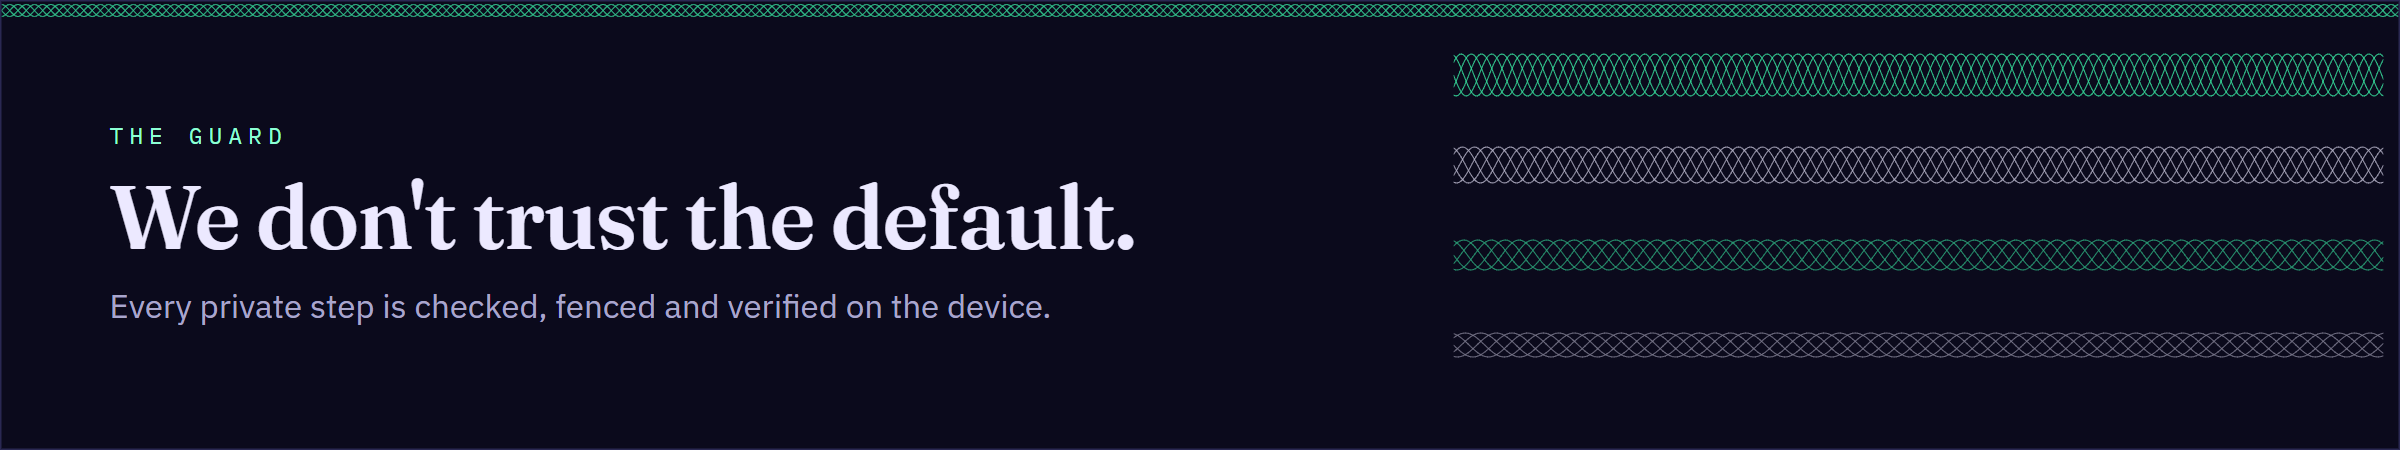
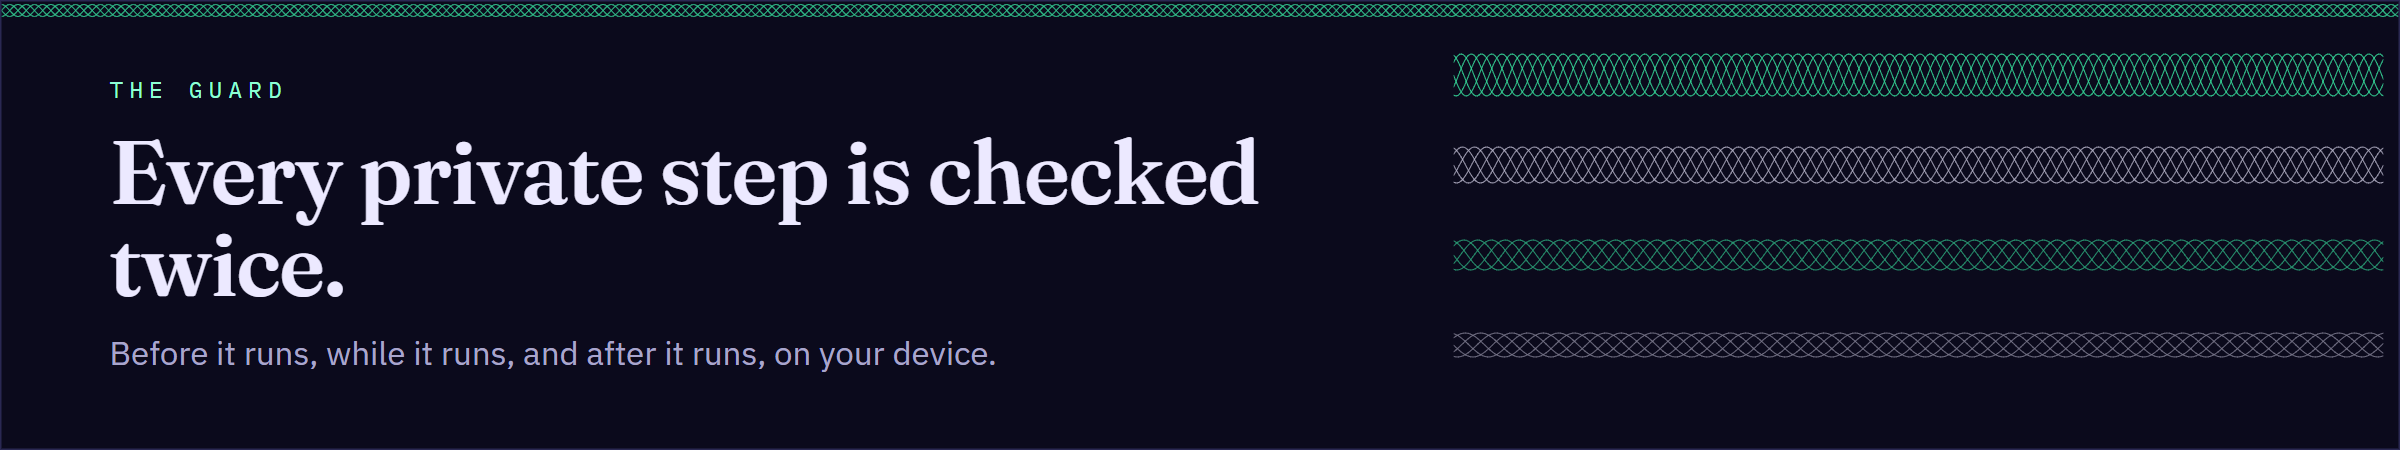
docs(copy): [FS-T1] gentler guard wording; final-batch scope in agent files
The guard section no longer reads as a charge against the SDK team: it calls
firebase-js-sdk #10635 an open report we haven't reproduced, and says why
Envoy checks every private step anyway ("Every private step is checked
twice."). Same wording in the About dialog, README, banner and kit.
CLAUDE.md, AGENTS.md and GEMINI.md record the owner's 26 Nov decisions:
Android companion and more masking languages are in scope.

Changed region(s): [[0.0312, 0.28, 0.5312, 0.7156], [0.0312, 0.7467, 0.4375, 0.8089], [0.0312, 0.1867, 0.125, 0.2178]]

diff --git a/packages/app/src/components/AboutDialog.tsx b/packages/app/src/components/AboutDialog.tsx
@@ -75,11 +75,11 @@ export function AboutDialog({ open, onClose }: { open: boolean; onClose: () => v
           </tbody>
         </table>
         <p className="m-0 text-sm leading-relaxed text-muted">
-          <strong className="text-ink">We don't trust the default.</strong> A known SDK issue
-          (firebase-js-sdk #10635) can send "on-device only" requests to the cloud in browsers
-          without Chrome's built-in model. Envoy checks the model before every private step, blocks
-          the cloud endpoint while one runs, and discards any answer that didn't come from the
-          device.
+          <strong className="text-ink">Every private step is checked twice.</strong> An open SDK
+          report (firebase-js-sdk #10635) describes "on-device only" requests reaching the cloud in
+          browsers without Chrome's built-in model. We haven't seen it ourselves, but Envoy doesn't
+          rely on any one layer: it checks the model before every private step, blocks the cloud
+          endpoint while one runs, and discards any answer that didn't come from the device.
         </p>
         <p className="m-0 text-sm text-muted">
           Inspired by PAPILLON (Li et al., NAACL 2025),{' '}

diff --git a/apps/web/src/art/Banners.tsx b/apps/web/src/art/Banners.tsx
@@ -41,8 +41,8 @@ export const BANNERS: {
   {
     slug: 'guard',
     eyebrow: 'The guard',
-    title: "We don't trust the default.",
-    sub: 'Every private step is checked, fenced and verified on the device.',
+    title: 'Every private step is checked twice.',
+    sub: 'Before it runs, while it runs, and after it runs, on your device.',
     tone: 'device',
     art: 'bands',
   },

diff --git a/AGENTS.md b/AGENTS.md
@@ -15,8 +15,8 @@ Envoy is our entry for the Firebase **#BuildHybridAI 2026** hackathon. Hard dead
 `packages/core` (pure TS privacy engine, no network) · `packages/ai` (Firebase AI Logic, App Check, Remote Config, device guard) · `apps/web` (Vite React SPA) · `apps/extension` (stretch) · `tests/eval` · `docs/`
 
 ## Decisions already made (don't reopen)
-- Web app first (Best Web/Chrome). The Chrome extension is a stretch goal; Android is a later stretch.
-- English only for now.
+- Web app first (Best Web/Chrome), plus the Chrome extension. **Owner decision 26 Nov 2026 (final batch): an Android companion (`android/`, Kotlin + Compose, `firebase-ai` + `firebase-ai-ondevice`) is now in scope.** Android SDK, Gradle cache and AVDs live on F: only (`F:/Android`).
+- English first. **Owner decision 26 Nov 2026: masking adds more languages** — only those Chrome's Prompt API lists (en, ja, es, de, fr), each with its own local rules; the app, docs and video stay in English.
 - GitHub account `hesham88`; commit author `Hesham Aboul-Fetouh <hesham1988@gmail.com>`. Google/Firebase account: `hesham1988@gmail.com` only. Never use a work account.
 - No backend server of our own. The only network calls are to Firebase services.
 
@@ -44,7 +44,7 @@ Shared files (`docs/PLAN.md`, `AGENTS.md`, root `package.json`): small, focused 
 ## Hard rules
 - Never commit secrets, `.env`, API keys, App Check debug tokens, or real personal data. Sample people and IDs are fictional.
 - Private steps (detect, minimize, route, local answer) use `InferenceMode.ONLY_ON_DEVICE`. They must never fall back to the cloud, and raw document text never goes to the cloud.
-- **Known SDK bug (firebase-js-sdk #10635, open):** `ONLY_ON_DEVICE` silently calls the cloud when Chrome's `LanguageModel` API is missing. Before every private step, check that `'LanguageModel' in self` and `await LanguageModel.availability() === 'available'`; otherwise use Basic protection (local rules only). After the call, assert `response.inferenceSource === InferenceSource.ON_DEVICE`. Keep the tests for this guard green.
+- **Known SDK bug (firebase-js-sdk #10635, open):** the issue reports `ONLY_ON_DEVICE` requests reaching the cloud when Chrome's `LanguageModel` API is missing (we haven't reproduced it ourselves; in public copy, describe it as an open report, never as a fault of the SDK team). Before every private step, check that `'LanguageModel' in self` and `await LanguageModel.availability() === 'available'`; otherwise use Basic protection (local rules only). After the call, assert `response.inferenceSource === InferenceSource.ON_DEVICE`. Keep the tests for this guard green.
 - Don't guess Firebase AI Logic APIs. Check the installed typings in `node_modules/@firebase/ai`.
 - **Evals and probes measure the real product:** every on-device or cloud result must come from the real pipeline (`analyze` / `answer` in `@envoy/ai`) running through **Firebase AI Logic hybrid inference** (`initEnvoy` → `createStepModel` with `ONLY_ON_DEVICE` / `PREFER_IN_CLOUD` → `runPrivate` and the device guard) inside the Chrome that has the model. Use `scripts/lib/envoy-browser.mjs`. Never synthesize model outputs from gold labels; an "oracle" upper bound may exist only if it is labelled as such and kept out of headline numbers. Every result names the model (component and version) and the date.
 - When you finish a task, update `docs/PLAN.md`.

diff --git a/CLAUDE.md b/CLAUDE.md
@@ -15,8 +15,8 @@ Envoy is our entry for the Firebase **#BuildHybridAI 2026** hackathon. Hard dead
 `packages/core` (pure TS privacy engine, no network) · `packages/ai` (Firebase AI Logic, App Check, Remote Config, device guard) · `apps/web` (Vite React SPA) · `apps/extension` (stretch) · `tests/eval` · `docs/`
 
 ## Decisions already made (don't reopen)
-- Web app first (Best Web/Chrome). The Chrome extension is a stretch goal; Android is a later stretch.
-- English only for now.
+- Web app first (Best Web/Chrome), plus the Chrome extension. **Owner decision 26 Nov 2026 (final batch): an Android companion (`android/`, Kotlin + Compose, `firebase-ai` + `firebase-ai-ondevice`) is now in scope.** Android SDK, Gradle cache and AVDs live on F: only (`F:/Android`).
+- English first. **Owner decision 26 Nov 2026: masking adds more languages** — only those Chrome's Prompt API lists (en, ja, es, de, fr), each with its own local rules; the app, docs and video stay in English.
 - GitHub account `hesham88`; commit author `Hesham Aboul-Fetouh <hesham1988@gmail.com>`. Google/Firebase account: `hesham1988@gmail.com` only. Never use a work account.
 - No backend server of our own. The only network calls are to Firebase services.
 
@@ -44,7 +44,7 @@ Shared files (`docs/PLAN.md`, `AGENTS.md`, root `package.json`): small, focused 
 ## Hard rules
 - Never commit secrets, `.env`, API keys, App Check debug tokens, or real personal data. Sample people and IDs are fictional.
 - Private steps (detect, minimize, route, local answer) use `InferenceMode.ONLY_ON_DEVICE`. They must never fall back to the cloud, and raw document text never goes to the cloud.
-- **Known SDK bug (firebase-js-sdk #10635, open):** `ONLY_ON_DEVICE` silently calls the cloud when Chrome's `LanguageModel` API is missing. Before every private step, check that `'LanguageModel' in self` and `await LanguageModel.availability() === 'available'`; otherwise use Basic protection (local rules only). After the call, assert `response.inferenceSource === InferenceSource.ON_DEVICE`. Keep the tests for this guard green.
+- **Known SDK bug (firebase-js-sdk #10635, open):** the issue reports `ONLY_ON_DEVICE` requests reaching the cloud when Chrome's `LanguageModel` API is missing (we haven't reproduced it ourselves; in public copy, describe it as an open report, never as a fault of the SDK team). Before every private step, check that `'LanguageModel' in self` and `await LanguageModel.availability() === 'available'`; otherwise use Basic protection (local rules only). After the call, assert `response.inferenceSource === InferenceSource.ON_DEVICE`. Keep the tests for this guard green.
 - Don't guess Firebase AI Logic APIs. Check the installed typings in `node_modules/@firebase/ai`.
 - **Evals and probes measure the real product:** every on-device or cloud result must come from the real pipeline (`analyze` / `answer` in `@envoy/ai`) running through **Firebase AI Logic hybrid inference** (`initEnvoy` → `createStepModel` with `ONLY_ON_DEVICE` / `PREFER_IN_CLOUD` → `runPrivate` and the device guard) inside the Chrome that has the model. Use `scripts/lib/envoy-browser.mjs`. Never synthesize model outputs from gold labels; an "oracle" upper bound may exist only if it is labelled as such and kept out of headline numbers. Every result names the model (component and version) and the date.
 - When you finish a task, update `docs/PLAN.md`.

diff --git a/GEMINI.md b/GEMINI.md
@@ -15,8 +15,8 @@ Envoy is our entry for the Firebase **#BuildHybridAI 2026** hackathon. Hard dead
 `packages/core` (pure TS privacy engine, no network) · `packages/ai` (Firebase AI Logic, App Check, Remote Config, device guard) · `apps/web` (Vite React SPA) · `apps/extension` (stretch) · `tests/eval` · `docs/`
 
 ## Decisions already made (don't reopen)
-- Web app first (Best Web/Chrome). The Chrome extension is a stretch goal; Android is a later stretch.
-- English only for now.
+- Web app first (Best Web/Chrome), plus the Chrome extension. **Owner decision 26 Nov 2026 (final batch): an Android companion (`android/`, Kotlin + Compose, `firebase-ai` + `firebase-ai-ondevice`) is now in scope.** Android SDK, Gradle cache and AVDs live on F: only (`F:/Android`).
+- English first. **Owner decision 26 Nov 2026: masking adds more languages** — only those Chrome's Prompt API lists (en, ja, es, de, fr), each with its own local rules; the app, docs and video stay in English.
 - GitHub account `hesham88`; commit author `Hesham Aboul-Fetouh <hesham1988@gmail.com>`. Google/Firebase account: `hesham1988@gmail.com` only. Never use a work account.
 - No backend server of our own. The only network calls are to Firebase services.
 
@@ -44,7 +44,7 @@ Shared files (`docs/PLAN.md`, `AGENTS.md`, root `package.json`): small, focused 
 ## Hard rules
 - Never commit secrets, `.env`, API keys, App Check debug tokens, or real personal data. Sample people and IDs are fictional.
 - Private steps (detect, minimize, route, local answer) use `InferenceMode.ONLY_ON_DEVICE`. They must never fall back to the cloud, and raw document text never goes to the cloud.
-- **Known SDK bug (firebase-js-sdk #10635, open):** `ONLY_ON_DEVICE` silently calls the cloud when Chrome's `LanguageModel` API is missing. Before every private step, check that `'LanguageModel' in self` and `await LanguageModel.availability() === 'available'`; otherwise use Basic protection (local rules only). After the call, assert `response.inferenceSource === InferenceSource.ON_DEVICE`. Keep the tests for this guard green.
+- **Known SDK bug (firebase-js-sdk #10635, open):** the issue reports `ONLY_ON_DEVICE` requests reaching the cloud when Chrome's `LanguageModel` API is missing (we haven't reproduced it ourselves; in public copy, describe it as an open report, never as a fault of the SDK team). Before every private step, check that `'LanguageModel' in self` and `await LanguageModel.availability() === 'available'`; otherwise use Basic protection (local rules only). After the call, assert `response.inferenceSource === InferenceSource.ON_DEVICE`. Keep the tests for this guard green.
 - Don't guess Firebase AI Logic APIs. Check the installed typings in `node_modules/@firebase/ai`.
 - **Evals and probes measure the real product:** every on-device or cloud result must come from the real pipeline (`analyze` / `answer` in `@envoy/ai`) running through **Firebase AI Logic hybrid inference** (`initEnvoy` → `createStepModel` with `ONLY_ON_DEVICE` / `PREFER_IN_CLOUD` → `runPrivate` and the device guard) inside the Chrome that has the model. Use `scripts/lib/envoy-browser.mjs`. Never synthesize model outputs from gold labels; an "oracle" upper bound may exist only if it is labelled as such and kept out of headline numbers. Every result names the model (component and version) and the date.
 - When you finish a task, update `docs/PLAN.md`.

diff --git a/README.md b/README.md
@@ -121,7 +121,7 @@ Five task-specific model configurations (four use Chrome's on-device model, one 
 | The device guard: availability check, network tripwire, `inferenceSource` assertion, session cleanup                  | [`getDeviceStatus`](packages/ai/src/device-guard.ts#L100), [`withCloudTripwire`](packages/ai/src/device-guard.ts#L131), [`InferenceSource.ON_DEVICE`](packages/ai/src/device-guard.ts#L210), [`withSessionCleanup`](packages/ai/src/device-guard.ts#L62) |
 | The pipeline: `analyze` (private steps), `answer` (local answer or cloud reasoning over tags)                         | [`analyze`](packages/ai/src/pipeline.ts#L229), [`answer`](packages/ai/src/pipeline.ts#L439), [`checkOutbound`](packages/ai/src/pipeline.ts#L208)                                                                                                         |
 
-To see the guard catch firebase-js-sdk #10635 yourself, open [`/dev`](https://envoy-hybrid-ai.web.app/dev) and press **Simulate missing LanguageModel**: the private step is blocked instead of silently going to the cloud.
+To see the guard handle the case described in firebase-js-sdk #10635, open [`/dev`](https://envoy-hybrid-ai.web.app/dev) and press **Simulate missing LanguageModel**: the private step is blocked before any call is made.
 
 ### Why not just redact?
 
@@ -132,11 +132,11 @@ A typical scrubber replaces everything with `[REDACTED]` and still sends the who
 - **The cloud never sees the result either.** It writes `{{RENT * 1.10}}` and Envoy works out EGP 9,350 on your device ([`expr.ts`](packages/core/src/expr.ts)).
 - **Some questions never go to the cloud.** "When does my lease end?" is answered on the device, with 0 bytes sent.
 
-<img src="docs/img/brand/section-guard.png" alt="We don't trust the default." width="100%">
+<img src="docs/img/brand/section-guard.png" alt="Every private step is checked twice." width="100%">
 
 ## The guard
 
-`ONLY_ON_DEVICE` can silently call the cloud when Chrome's `LanguageModel` API is missing ([firebase-js-sdk #10635](https://github.com/firebase/firebase-js-sdk/issues/10635), open). A privacy product can't rely on that, so every private step goes through [`runPrivate`](packages/ai/src/device-guard.ts):
+An open report on the Firebase JS SDK ([firebase-js-sdk #10635](https://github.com/firebase/firebase-js-sdk/issues/10635)) describes `ONLY_ON_DEVICE` requests reaching the cloud when Chrome's `LanguageModel` API is missing. We haven't run into it ourselves, but a privacy promise shouldn't rest on any one layer, so every private step goes through [`runPrivate`](packages/ai/src/device-guard.ts):
 
 1. **Check first:** `LanguageModel` must exist and report `available`, or Envoy switches to Basic protection.
 2. **Fence the network:** while a private step runs, any request to the Firebase AI endpoint is blocked, and the run stops with a privacy error instead of falling back.

diff --git a/docs/SUBMISSION_KIT.md b/docs/SUBMISSION_KIT.md
@@ -311,7 +311,7 @@ Envoy is your private AI agent to the cloud. You ask a question about a private 
 Envoy is built on **Firebase AI Logic hybrid inference** in Chrome:
 - One `GenerativeModel` per step, each with its own `InferenceMode`. Finding details, choosing clauses, routing and local answers use `ONLY_ON_DEVICE` on Chrome's built-in model (measured on Gemma 4, the model Gemini Nano 4 is built on). Only the reasoning step reaches the cloud: Gemini 3.5 Flash-Lite with `PREFER_IN_CLOUD`, or Gemini 4 Hydrogen with `ONLY_IN_CLOUD` and Flash-Lite as its fallback.
 - Structured output on both sides from one JSON Schema (`responseConstraint` on the device, `responseJsonSchema` in the cloud).
-- A **device guard**: because of firebase-js-sdk issue #10635 (`ONLY_ON_DEVICE` can silently use the cloud when Chrome's model is missing), every private step checks availability, sets a network tripwire on the AI Logic endpoint, and asserts `inferenceSource === ON_DEVICE`. A blocked request stops the run; it never falls back to the cloud.
+- A **device guard**: an open SDK report (firebase-js-sdk #10635) describes `ONLY_ON_DEVICE` requests reaching the cloud when Chrome's model is missing. We haven't seen it ourselves, but a privacy promise shouldn't rest on one layer, so every private step checks availability, sets a network tripwire on the AI Logic endpoint, and asserts `inferenceSource === ON_DEVICE`. A blocked request stops the run; it never falls back to the cloud.
 - **App Check** (reCAPTCHA Enterprise, limited-use tokens) is enforced; **Remote Config** picks the cloud models; the app is on **Firebase Hosting** with CI deploys.
 - React + Vite + Tailwind for the web app and a Manifest V3 extension that embeds the same chat in Chrome's side panel. A deterministic core (rules, tags, guard, restore) is shared by both.
 
